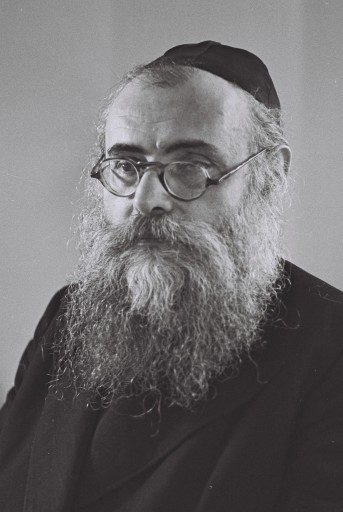
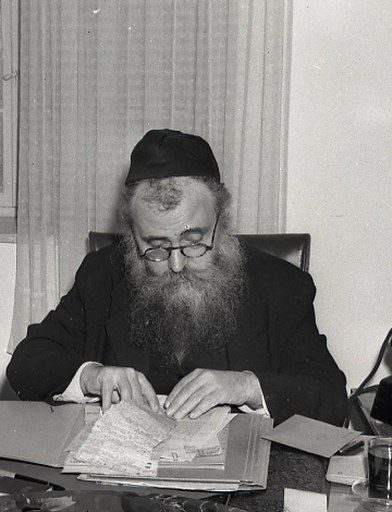
Portraits: Meitar CC BY 4.0 photos for Remez and Levin, and a CC BY path in commons_licences (refs #30)

diff --git a/scripts/oss/commons_licences.py b/scripts/oss/commons_licences.py
@@ -4,9 +4,10 @@
 # ///
 """Write ASSETS.portraits.yaml: one provenance rule per portrait file, read from Wikimedia Commons (licence short name,
 the licence templates on the file page, and the artist). A portrait is 'verified' only when it is public domain or
-CC0 AND its page carries an explicit US-status template (PD-Israel alone does not settle US copyright). Anything else
-is 'owner-verify'; a licence that is neither public domain nor CC0 is recorded as licence 'unknown', which the release
-gate refuses outright.
+CC0 AND its page carries an explicit US-status template (PD-Israel alone does not settle US copyright). A file whose page
+carries an explicit Cc-by-4.0 template and a named artist is recorded as CC-BY-4.0, 'verified' only when NOTICE also
+has an attribution entry for its Commons page (owner ruling, #30). Anything else is 'owner-verify'; a licence that is
+none of these is recorded as licence 'unknown', which the release gate refuses outright.
 
 Usage: uv run scripts/oss/commons_licences.py   (network: commons.wikimedia.org, read-only)"""
 from __future__ import annotations
@@ -36,16 +37,23 @@ def _has_us_status(name: str) -> bool:
     return name.startswith("PD-US") or name == "Cc-zero" or name in US_1996_TEMPLATES or name in US_EXPIRED_COMPOSITES
 
 
-def rule_for(path: str, source: str, licence_short: str, templates: list[str], artist: str) -> dict:
+def rule_for(path: str, source: str, licence_short: str, templates: list[str], artist: str,
+             attributed: bool = False) -> dict:
     names = [t.removeprefix("Template:") for t in templates]
     low = licence_short.lower()
+    cc_by = low == "cc by 4.0" and "Cc-by-4.0" in names
     licence = "CC0-1.0" if low.startswith("cc0") else "Public-Domain" if low.startswith(("public domain", "pd")) \
-        else "unknown"
+        else "CC-BY-4.0" if cc_by else "unknown"
     rule = {"glob": path, "licence": licence, "source": source, "status": "verified",
             "commons": f"{licence_short}; {', '.join(names)}",
             "artist": re.sub(r"<[^>]+>", "", html.unescape(artist)).strip()}
     if licence == "unknown":
-        rule.update(status="owner-verify", note=f"Commons licence '{licence_short}' is not public domain or CC0")
+        rule.update(status="owner-verify", note=f"Commons licence '{licence_short}' is not public domain, CC0 or CC BY 4.0")
+    elif cc_by:
+        if not rule["artist"]:
+            rule.update(status="owner-verify", note="CC BY 4.0 needs a named artist for the attribution")
+        elif not attributed:
+            rule.update(status="owner-verify", note="CC BY 4.0 needs an attribution entry for this file in NOTICE")
     elif any(n == "Not-PD-US-URAA" or n.startswith("Not-PD-US-URAA/") for n in names):
         rule.update(status="owner-verify", note="Commons explicitly warns Not-PD-US-URAA: US copyright restored")
     elif not any(_has_us_status(n) for n in names):
@@ -78,13 +86,14 @@ def main() -> int:
         if (ROOT / built).exists():
             pairs.append((built, portrait["source"]))
     pairs += EXTRA
+    notice = (ROOT / "NOTICE").read_text(encoding="utf-8")
     s = requests.Session()
     s.headers.update(UA)
     rules = []
     for path, source in pairs:
         title = "File:" + unquote(urlparse(source).path.rsplit("File:", 1)[1]).replace("_", " ")
         short, templates, artist = _commons(title, s)
-        rules.append(rule_for(path, source, short, templates, artist))
+        rules.append(rule_for(path, source, short, templates, artist, attributed=source in notice))
         print(f"{rules[-1]['status']:13} {path}  [{rules[-1]['commons']}]")
     header = ("# GENERATED by scripts/oss/commons_licences.py from content/people.yaml and Wikimedia Commons. Do not edit\n"
               "# by hand: re-run the script. A row is 'verified' only with an explicit US-status template.\n")

diff --git a/tools/tests/test_meitar_portraits.py b/tools/tests/test_meitar_portraits.py
@@ -1,0 +1,58 @@
+"""The #30 batch (Remez, Levin): Meitar CC BY 4.0 portraits keep source, runtime, credit and licence record together."""
+from pathlib import Path
+import re
+
+from PIL import Image
+import yaml
+
+ROOT = Path(__file__).resolve().parents[2]
+BATCH = {
+    "remez": ("David_Remez_(997009452176205171).jpg", "promo/ref/people/David_Remez_CCBY_1950.jpg", 0.38, "Boris Carmi"),
+    "levin": ("Yitzhak-Meir_Levin_(997008137163805171).jpg", "promo/ref/people/Yitzhak-Meir_Levin_CCBY_1949.jpg", 0.41,
+              "Benno Rothenberg"),
+}
+PEOPLE = {p["id"]: p for p in yaml.safe_load((ROOT / "content/people.yaml").read_text(encoding="utf-8"))["people"]}
+RULES = yaml.safe_load((ROOT / "ASSETS.portraits.yaml").read_text(encoding="utf-8"))["rules"]
+
+
+def source(name):
+    return "https://commons.wikimedia.org/wiki/File:" + name
+
+
+def test_people_record_the_cc_by_source_file_and_focus():
+    for pid, (name, file, focus, _artist) in BATCH.items():
+        p = PEOPLE[pid]["portrait"]
+        assert (p["license"], p["source"], p["file"], p["focus_y"]) == ("CC BY 4.0", source(name), file, focus)
+
+
+def test_licence_rows_are_cc_by_and_verified_for_source_and_runtime():
+    for pid, (name, file, _focus, artist) in BATCH.items():
+        for path in (file, f"unity/Assets/UI/Portraits/{pid}.jpg"):
+            r = next(r for r in RULES if r["glob"] == path)
+            assert r["licence"] == "CC-BY-4.0" and r["status"] == "verified" and r["source"] == source(name)
+            assert r["artist"] == artist and "Cc-by-4.0" in r["commons"]
+
+
+def test_the_old_government_press_office_files_are_gone_from_the_rules():
+    gone = {"promo/ref/people/David_Remez.jpg", "promo/ref/people/Yitzhak-Meir_Levin.jpg"}
+    assert not gone & {r["glob"] for r in RULES}
+    assert not any((ROOT / g).exists() for g in gone)
+
+
+def test_runtime_is_the_source_crop_and_small():
+    for pid, (_name, file, _focus, _artist) in BATCH.items():
+        runtime = ROOT / f"unity/Assets/UI/Portraits/{pid}.jpg"
+        assert runtime.read_bytes() == (ROOT / file).read_bytes()
+        with Image.open(runtime) as image:
+            assert image.format == "JPEG" and image.height == 512 and 380 <= image.width <= 420
+
+
+def test_notice_credits_each_file_and_the_catalog_focus_matches():
+    notice = (ROOT / "NOTICE").read_text(encoding="utf-8")
+    catalog = (ROOT / "unity/Assets/UI/Portraits/PortraitCatalog.asset").read_text()
+    listing = (ROOT / "unity/Assets/UI/Portraits/PORTRAITS.txt").read_text()
+    for pid, (name, _file, focus, artist) in BATCH.items():
+        assert source(name) in notice and artist in notice
+        assert f"{pid} | CC BY 4.0 | {source(name)}\n" in listing
+        entry = re.search(rf"  - personId: {pid}\n(.*?)(?=  - personId:|\Z)", catalog, re.S).group(1)
+        assert f"focusY: {focus}" in entry

diff --git a/scripts/oss/tests/test_commons_licences.py b/scripts/oss/tests/test_commons_licences.py
@@ -21,7 +21,7 @@ def test_cc0_is_verified():
 def test_share_alike_is_recorded_as_unknown_licence():
     r = cl.rule_for("p/a.jpg", "s", "CC BY-SA 4.0", ["Template:Cc-by-sa-4.0"], "")
     assert r["licence"] == "unknown" and r["status"] == "owner-verify"
-    assert "not public domain or CC0" in r["note"]
+    assert "not public domain, CC0 or CC BY 4.0" in r["note"]
 
 
 def test_explicit_us_restoration_warning_cannot_be_verified_by_nested_pd_text():
@@ -89,3 +89,33 @@ def test_plain_old_tag_and_composite_helpers_are_not_us_status():
 def test_primary_us_tags_still_verify():
     for tag in ("PD-US-expired", "PD-USGov", "PD-USGov-NARA", "PD-US-no notice"):
         assert cl.rule_for("p/a.jpg", "s", "Public domain", ["Template:" + tag], "")["status"] == "verified"
+
+
+CC_BY = ["Template:Cc-by-4.0", "Template:Cc-by-layout"]
+
+
+def test_cc_by_with_artist_and_notice_entry_is_verified():
+    r = cl.rule_for("p/a.jpg", "s", "CC BY 4.0", CC_BY, "<a href='x'>Boris Carmi</a>", attributed=True)
+    assert r["licence"] == "CC-BY-4.0" and r["status"] == "verified" and r["artist"] == "Boris Carmi"
+    assert "note" not in r
+
+
+def test_cc_by_without_notice_entry_needs_the_owner():
+    r = cl.rule_for("p/a.jpg", "s", "CC BY 4.0", CC_BY, "Boris Carmi")
+    assert r["licence"] == "CC-BY-4.0" and r["status"] == "owner-verify" and "NOTICE" in r["note"]
+
+
+def test_cc_by_without_artist_needs_the_owner():
+    r = cl.rule_for("p/a.jpg", "s", "CC BY 4.0", CC_BY, "", attributed=True)
+    assert r["status"] == "owner-verify" and "artist" in r["note"]
+
+
+def test_cc_by_text_without_the_template_is_unknown():
+    r = cl.rule_for("p/a.jpg", "s", "CC BY 4.0", [], "Boris Carmi", attributed=True)
+    assert r["licence"] == "unknown" and r["status"] == "owner-verify"
+
+
+def test_cc_by_4_0_is_not_an_older_or_share_alike_version():
+    for short in ("CC BY 3.0", "CC BY-SA 4.0"):
+        r = cl.rule_for("p/a.jpg", "s", short, CC_BY, "Boris Carmi", attributed=True)
+        assert r["licence"] == "unknown"

diff --git a/LICENSING.md b/LICENSING.md
@@ -12,7 +12,7 @@ Different parts of this repository are under different licences. Where a file is
 | AI-generated images | `promo/final/01`–`08`, `promo/ref/*-src.jpg`, `docs/images/hero-concept-1936.jpg`, `promo/start-screen/*.png`, `unity/Assets/UI/StartScreen/declaration-hall.jpg` | Marked [CC0 1.0](LICENSES/CC0-1.0.txt). No rights are claimed. Purely AI-generated output may not be copyrightable. Made with the ElevenLabs Image API (see `promo/CREDITS.md`), except the start screen's option images, made with Dreamina; the start screen's painting was made on ElevenLabs from a Dreamina option (`ASSETS.yaml`). |
 | Quoted public-domain text | `docs/sources/declaration-1948/` | The Declaration of the Establishment of the State of Israel (1948): the Hebrew of the Official Gazette and the English translation. Public domain; sources in each file and in `ASSETS.yaml`. |
 | In-engine captures | `promo/final/09`, `10`, `docs/images/build-*.jpg`, `docs/images/social-preview.jpg`, `spikes/m0/evidence/*.jpg`, `spikes/m0/evidence/*.txt` (logs) | CC BY 4.0. They show the Copernicus-derived terrain; see below. |
-| Portraits | `unity/Assets/UI/Portraits/`, `promo/ref/people/`, `promo/ref/*-sheet.jpg` | Public-domain photographs from Wikimedia Commons, plus one CC0 file (Moshe Dayan, 1962). Per-file sources are in `content/people.yaml` and `promo/CREDITS.md`. |
+| Portraits | `unity/Assets/UI/Portraits/`, `promo/ref/people/`, `promo/ref/*-sheet.jpg` | Public-domain photographs from Wikimedia Commons, CC0 files, and Meitar Collection photographs under CC BY 4.0 (credits in [NOTICE](NOTICE)). Per-file sources are in `content/people.yaml` and `promo/CREDITS.md`. |
 | Event-card photographs | `unity/Assets/UI/EventImages/*.jpg` | Archival photographs from Wikimedia Commons, each under its own licence: CC BY 4.0 (Meitar Collection, National Library of Israel; credits in [NOTICE](NOTICE)), CC0 1.0 (Nationaal Archief) or public domain (US National Archives). All are adapted (graded and cropped). Per-file records in `ASSETS.yaml`; the mapping `event-images.yaml` beside them is CC BY 4.0 like the other UI assets. |
 | Fonts | `unity/Assets/UI/Fonts/` | EB Garamond, [SIL Open Font License 1.1](unity/Assets/UI/Fonts/OFL.txt); Frank Ruhl Libre (`FrankRuhlLibre/`), [SIL Open Font License 1.1](unity/Assets/UI/Fonts/FrankRuhlLibre/OFL.txt) |
 | Terrain heightmap | `unity/Assets/StreamingAssets/map/heightmap.*`, `content/map/hexes.json` (elevations) | Derived from Copernicus GLO-30 under the Copernicus DEM licence. Required notice: "produced using Copernicus WorldDEM-30 (c) DLR e.V. 2010-2014 and (c) Airbus Defence and Space GmbH 2014-2018 provided under COPERNICUS by the European Union and ESA; all rights reserved" |

diff --git a/CHANGELOG.md b/CHANGELOG.md
@@ -8,6 +8,7 @@ adds a line under **Unreleased**; CI's `Changelog` job checks this (see `CONTRIB
 ## [Unreleased]
 
 ### Added
+- Portraits for Remez and Levin (refs #30): Government Press Office photographs, which Commons marks PD-Israel only, are replaced by Meitar Collection photographs (National Library of Israel, 1950 and 1949) under CC BY 4.0, cropped, with per-photo credits in `NOTICE`. `scripts/oss/commons_licences.py` now records an explicit Cc-by-4.0 file as `CC-BY-4.0` and marks it verified only with a named artist and a `NOTICE` entry; public domain, CC0 and the PD-Israel-only refusal are unchanged. Likeness check and the NLI confirmation before a paid release stay with the maintainer. Unity not run.
 - The website (`site/`, refs #393): a static Astro site in English (`/en/`) and Hebrew (`/he/`, right to left) with Home, Play, History, Sources, Media, Devlog, Contributors, How we make it, Press, Contribute and Privacy. Every image and video carries a visible label (in-engine capture with build and date, AI-generated concept art, or AI cinematic promo, not gameplay); the History and Sources pages show the events and sources from `content/` as they are. The in-engine images are the README's screenshots, read from `docs/images/build-*.jpg` and described in `docs/images/captures.yaml`, so retaking them updates the site. The cinematic trailer is hosted as one 720p H.264 encode, shown behind a click with captions in its own labelled section after the gameplay; a real gameplay clip listed in `captures.yaml` becomes the home page's muted hero loop, with a pause button. Self-hosted fonts and images, no analytics, no cookies and nothing loaded from another site. A `Site` workflow builds and checks it on pull requests; deploying to GitHub Pages waits for the owner.
 - The GDD v0.1 loop switch (`systems.loop` in eras.yaml, default `legacy`), its state (cities, units, objectives and score,
   hashed only when set) and save schema 2, which names its ruleset: a game refuses a save made under another ruleset with a
